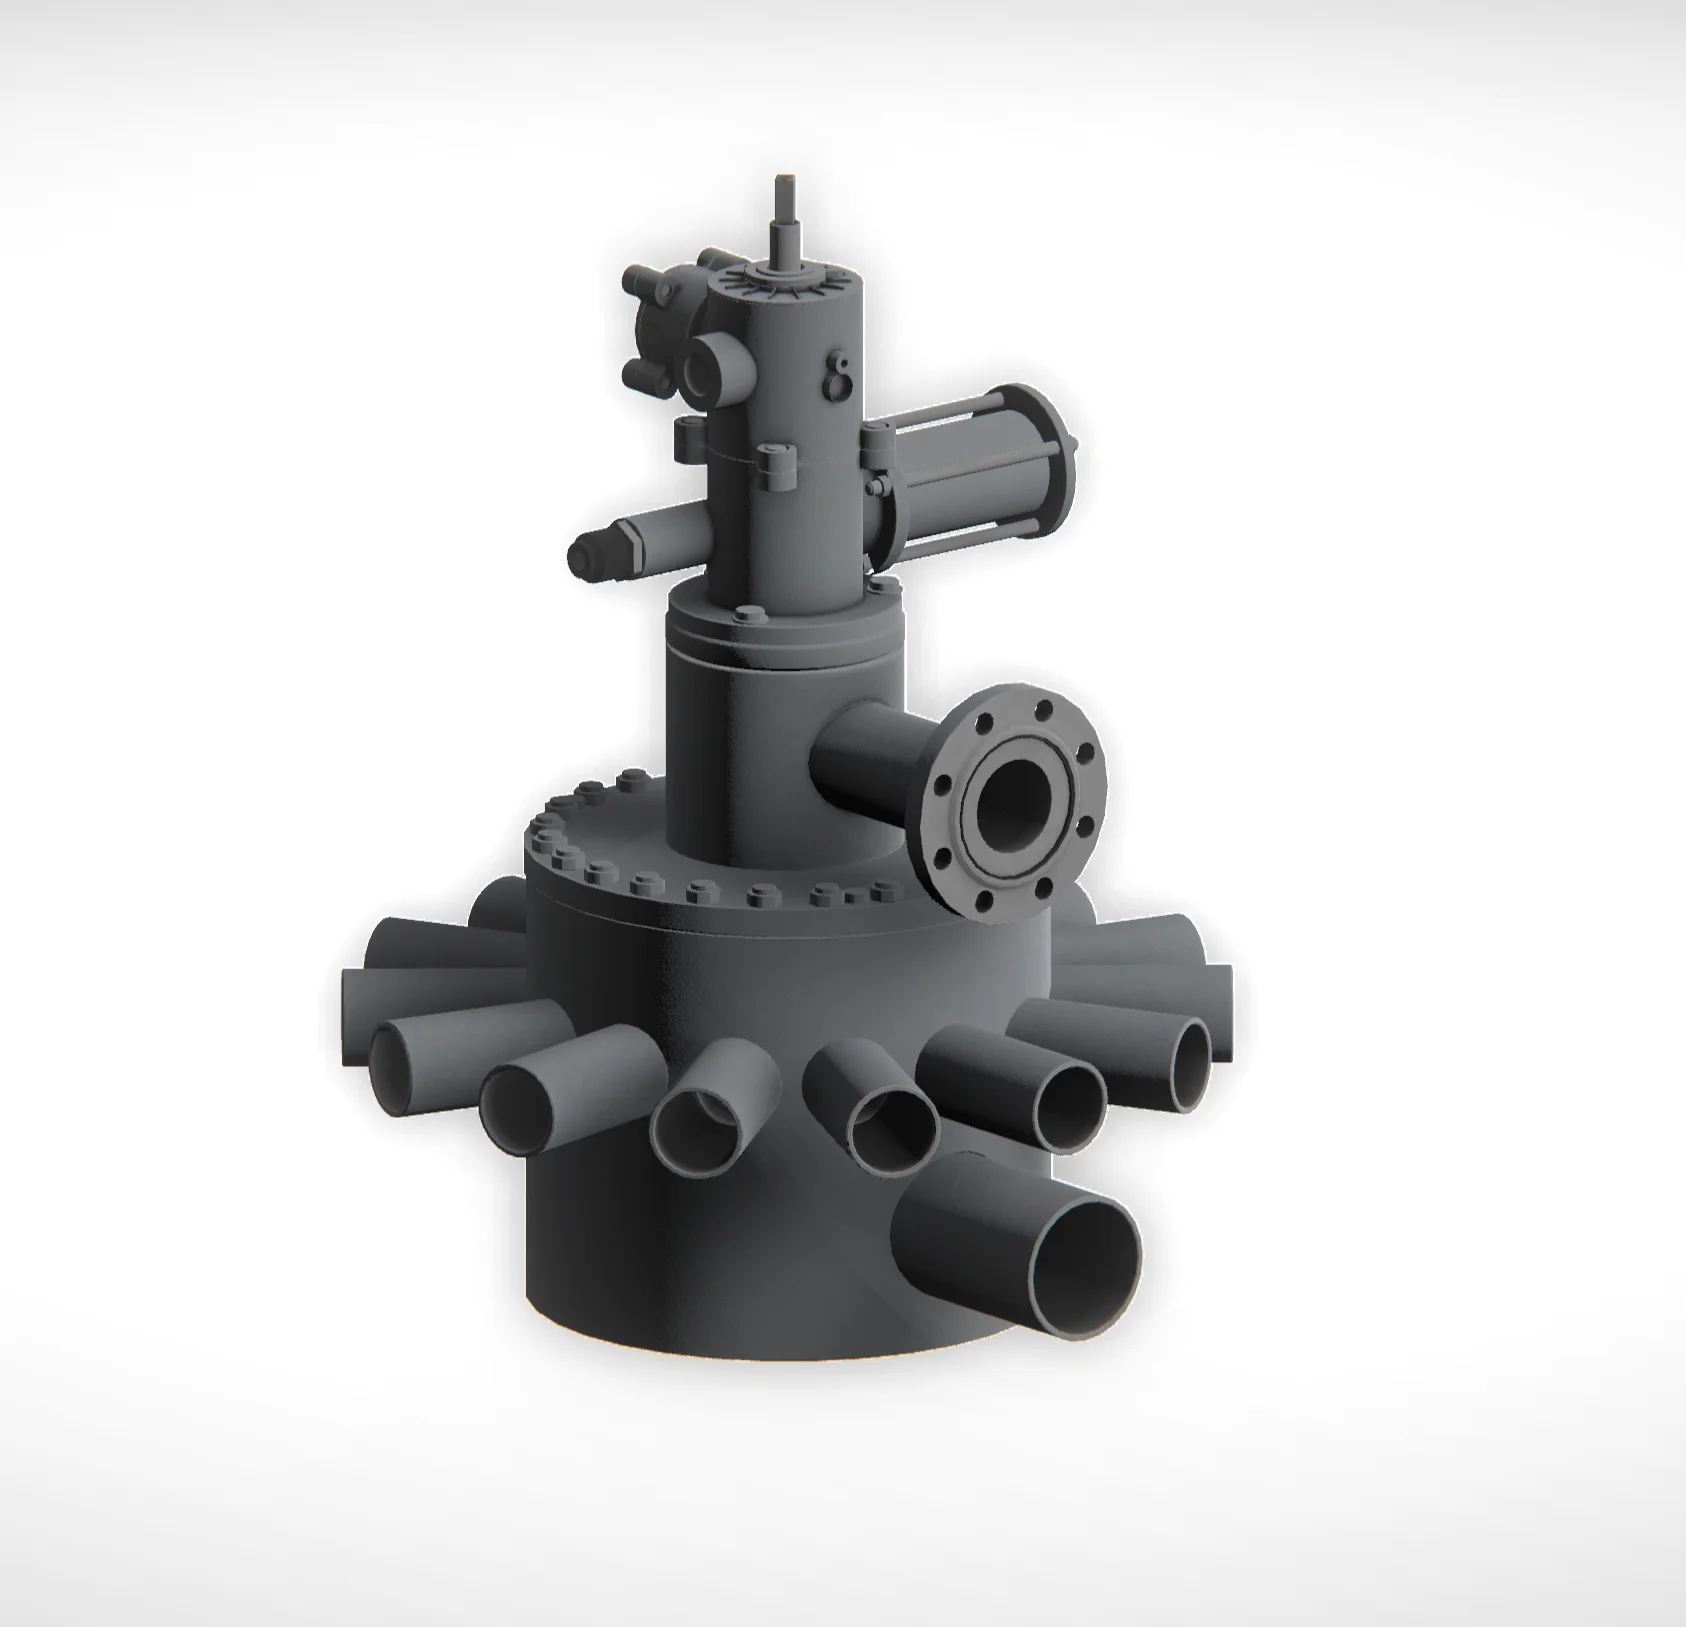
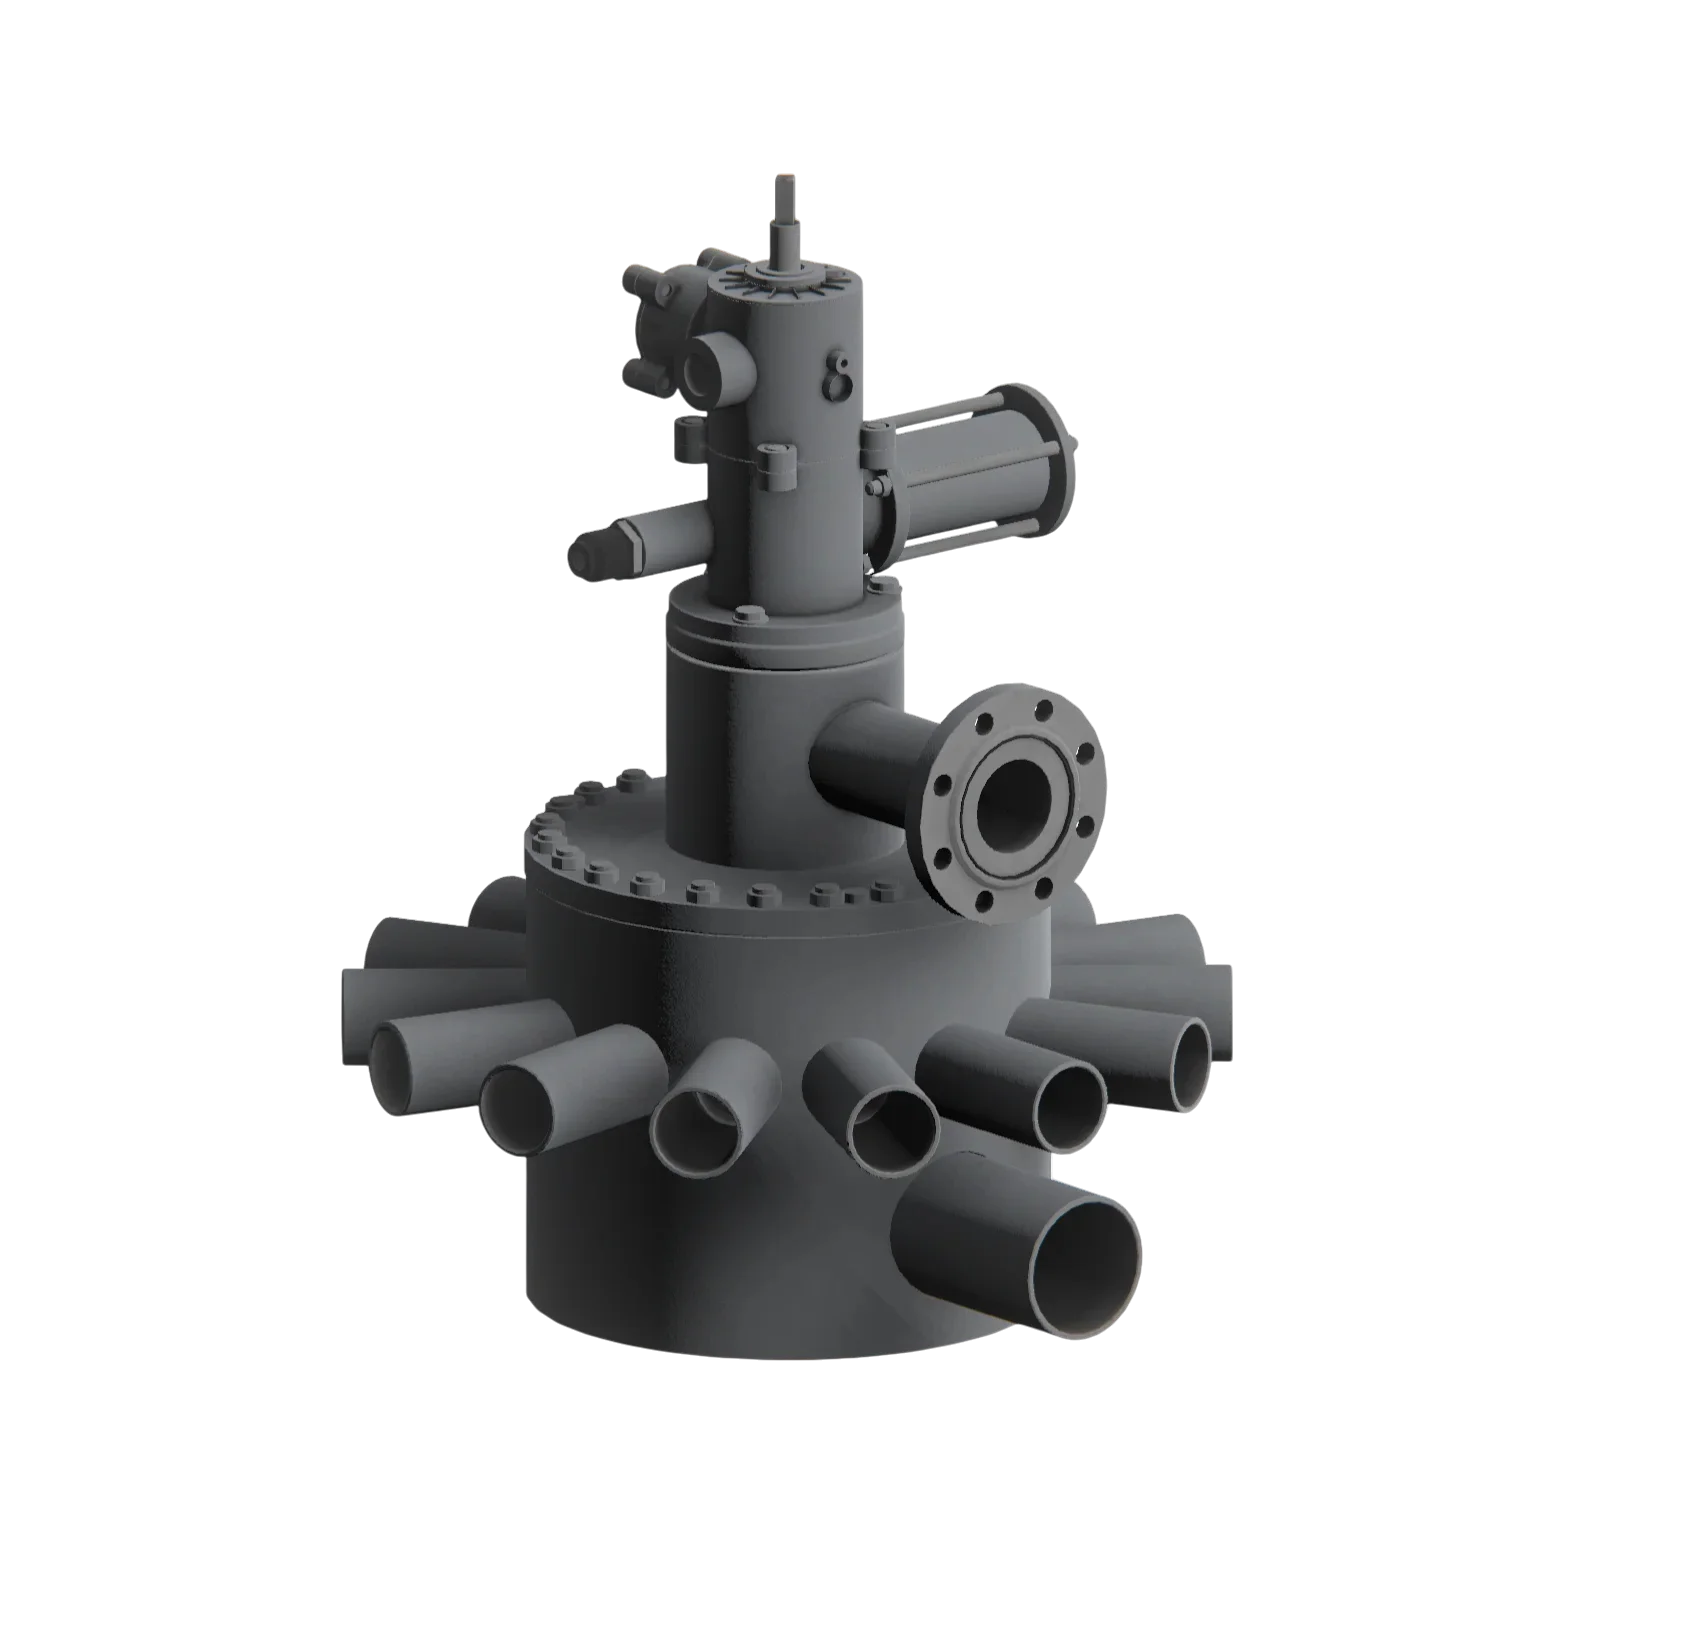
new foto

diff --git a/src/components/content/products/Accessories.tsx b/src/components/content/products/Accessories.tsx
@@ -4,10 +4,10 @@ import Styles from './products.module.scss';
 
 import product_2_1 from '../../../images/products/product_2.webp';
 import product_2_2 from '../../../images/products/product_2_1.webp';
-import product_2_3 from '../../../images/products/product_2_2.png';
-import product_2_4 from '../../../images/products/product_2_3.png';
-import product_2_5 from '../../../images/products/product_2_4.png';
-import product_2_6 from '../../../images/products/product_2_5.png';
+import product_2_3 from '../../../images/products/product_2_2.webp';
+import product_2_4 from '../../../images/products/product_2_3.webp';
+import product_2_5 from '../../../images/products/product_2_4.webp';
+import product_2_6 from '../../../images/products/product_2_5.webp';
 import { BackToTop } from '../../ui/back-to-top/BackToTop'
 
 type TAccessories = 'ervip' | 'urpd' | 'psm' | 'kmr' | 'gidroprivod' | 'separation';

diff --git a/src/components/content/shop/Shop.tsx b/src/components/content/shop/Shop.tsx
@@ -14,9 +14,9 @@ import { BackToTop } from '../../ui/back-to-top/BackToTop'
 
 import product_1 from '../../../images/products/product_2.webp';
 import product_2 from '../../../images/products/product_2_1.webp';
-import product_3 from '../../../images/products/product_2_2.png';
-import product_4 from '../../../images/products/product_2_3.png';
-import product_5 from '../../../images/products/product_2_4.png';
+import product_3 from '../../../images/products/product_2_2.webp';
+import product_4 from '../../../images/products/product_2_3.webp';
+import product_5 from '../../../images/products/product_2_4.webp';
 
 type TProducts = 'shop_1' | 'shop_2' | 'shop_3' | 'shop_4' | 'shop_5';
 type Page = 'shop' | TProducts | 'order';

diff --git a/src/components/content/products/Accessories/Separation.tsx b/src/components/content/products/Accessories/Separation.tsx
@@ -1,7 +1,7 @@
 import { useEffect, useRef, useState } from "react";
 import Styles from "../products.module.scss";
 import back from '../../../../images/back.svg'
-import product from "../../../../images/products/product_2_5.png";
+import product from "../../../../images/products/product_2_5.webp";
 
 import { BigPhoto } from "../../../ui/big-photo/BigPhoto";
 import { BackToTop } from "../../../ui/back-to-top/BackToTop";
